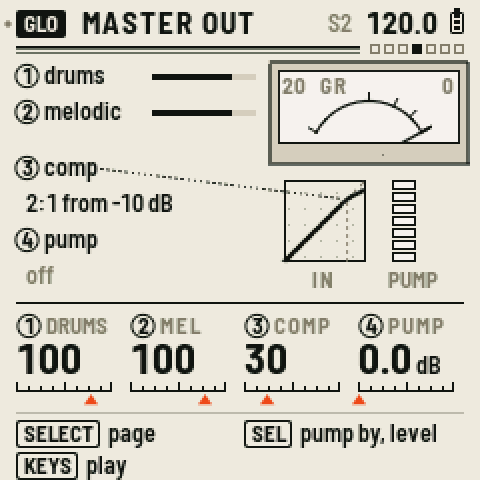
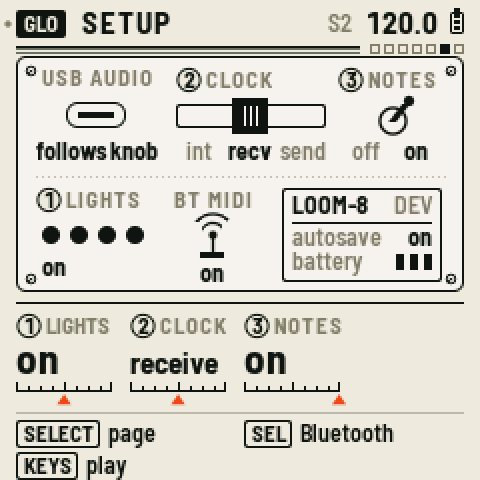
Setup: draw the rear panel (design A)
Setup's main area is now the back of the instrument instead of a spec sheet:
a USB-C socket over the USB audio setting; 2 CLOCK as a three-position slide
switch (int, recv, send, the live word bold), with an inked EXT beside it
while a MIDI clock drives the tempo; 3 NOTES as a toggle lever; 1 LIGHTS as
four lamps (on, keys: two, off: rings); BT MIDI as an antenna whose arcs show
while it is on (one while connecting) over bt_dev_text; and a rating plate
with LOOM-8 and the version, autosave and the battery's bars.

The page's hash ORed seq.ext into a bit 0x5E700 already set, so the old
page never redrew for an external clock; the new hash keeps the fields apart
and includes the touched knob (the callouts turn blue).

docs/screens/manual.xy shot Master out as setup.png; it now reaches Setup.
MANUAL: Setup's description.

diff --git a/app/pages.c b/app/pages.c
@@ -213,7 +213,6 @@ static const char *const LIGHTS_NAME[3] = {"off", "on", "keys"};
 static const char *const CLOCK_NAME[SEQ_NCLK] = {"internal", "receive", "send"};
 static const uint8_t CLOCK_POS[SEQ_NCLK] = {0, 2, 1};                  /* SEQ_CLK_* -> the knob's position */
 static const uint8_t CLOCK_AT[SEQ_NCLK] = {SEQ_CLK_INTERNAL, SEQ_CLK_RECEIVE, SEQ_CLK_SEND};
-static const char *const CLOCK_ROW[SEQ_NCLK] = {"internal", "sends", "receives"};
 static const char *const METRO_NAME[3] = {"off", "rec", "on"};
 static const char *const ONOFF[2] = {"off", "on"};
 static const char *const LINK_NAME[9] = {"off", "T1", "T2", "T3", "T4", "T5", "T6", "T7", "T8"};
@@ -8016,9 +8015,6 @@ static void draw_glfo(void)
     }
     cv_blit(0, MAIN_Y);
 }
-/* Setup: a specification sheet (the sheet's Setup): its rows with dotted leaders to their values in bold, and a small
- * drawing of the instrument: the USB port (a line), the Bluetooth link (dashed, solid while a device is joined), the
- * lights (the four pads filled when on), the version and the battery under it */
 static void spec_row_fit(int32_t x1, int32_t x2, int32_t y, const char *label, const char *val)   /* a long value goes to XS */
 {
     int32_t room = x2 - x1 - text_w(&FONT_XS, label) - 10;
@@ -8030,61 +8026,118 @@ static void spec_row_fit(int32_t x1, int32_t x2, int32_t y, const char *label, c
         (void)e;
     }
 }
+/* Setup (the drawing "A, rear panel"): the instrument's back, a card with a screw at each corner. Along the top the USB-C
+ * socket and USB audio's setting; 2 CLOCK, a three-position slide switch (int, recv, send: the knob's order), the
+ * slider over the live position, its word in bold ink, the others dim, and while a MIDI clock drives the tempo an
+ * inked EXT beside it; 3 NOTES, a toggle, the lever leaning right for on. Under a dotted rule: 1 LIGHTS, four lamps
+ * (all filled on, two for keys only, rings off); BT MIDI, an antenna (its arcs while on: one while connecting) over
+ * the Bluetooth device's text; and the rating plate: LOOM-8 and the version, autosave, the battery's bars (on a USB
+ * host's power: USB; nothing read: no row) */
+static void st_word(int32_t cx, int32_t y, const char *s, int live)   /* a switch's position: the live one bold */
+{
+    if (live)
+        text_c(cx, y, F_XB, s, K_TEXT);
+    else
+        text_c(cx, y - 1, &FONT_XS, s, K_DIM);   /* (XS one row lower: the same baseline) */
+}
 static void draw_setup(void)
 {
-    char td[24], tb[24];
-    uint32_t h = hash_u(2166136261u + proj.clock, 0x5E700u | (uint32_t)proj_slot | (uint32_t)proj.usb_full << 4 | (uint32_t)seq.ext << 8 |
-                                          (uint32_t)proj.rsv[0] << 12 | (uint32_t)proj.send_notes << 17 |
-                                          (uint32_t)(proj.rsv[2] & AUTOSAVE_OFF) << 26 | (uint32_t)(plat_battery() + 1) << 27);
-    int bt_on, bat = plat_battery();
-    const int32_t IX = 166, IY = 36;
+    static const char *const POS[SEQ_NCLK] = {"int", "recv", "send"};
+    char td[24], tv[24];
+    int bat = plat_battery(), ck = CLOCK_POS[proj.clock % SEQ_NCLK], arcs, ext = seq.ext != 0;
+    uint32_t h = hash_u(hash_u(2166136261u, 0x5E700u), (uint32_t)proj.lights | (uint32_t)proj.usb_full << 4 |
+                                           (uint32_t)ext << 8 | (uint32_t)p2_touch() << 12 | (uint32_t)proj.send_notes << 16 |
+                                           (uint32_t)ck << 20 | (uint32_t)(proj.rsv[2] & AUTOSAVE_OFF) << 24 | (uint32_t)(bat + 1) << 28);
     bt_dev_text(td, "on", "off");
     h = hash_s(h, td);
-    h = hash_u(h, proj.lights);
     if (!begin_main(h))
         return;
-    bt_on = td[0] != 'o' || td[1] != 'f';
-    tr_text(9, 3, F_LAB, "SPECIFICATIONS", K_DIM, 1);
-    spec_row_fit(8, 156, 19, "tempo from", seq.ext ? "MIDI clock in" : "LOOM-8");
-    spec_row_fit(8, 156, 33, "clock", CLOCK_ROW[proj.clock % SEQ_NCLK]);
-    spec_row_fit(8, 156, 47, "sends notes", proj.send_notes ? "yes" : "no");
-    spec_row_fit(8, 156, 61, "USB audio", USBA_NAME[proj.usb_full & 1u]);
-    spec_row_fit(8, 156, 75, "autosave", proj.rsv[2] & AUTOSAVE_OFF ? "off: SAVE saves" : "on");
-    spec_row_fit(8, 156, 89, "BT MIDI", td);
-    {   /* the instrument */
-        cv_frame(IX, IY, 64, 42, 4, K_TEXT, K_CARD);
-        cv_rect(IX + 5, IY + 5, 15, 15, K_TEXT);
-        for (int i = 0; i < 4; i++) {
-            float kx = (float)(IX + 28 + i * 9);
-            cv_disc(kx, (float)IY + 9.5f, 3.2f, K_BG);
-            cv_ring(kx, (float)IY + 9.5f, 3.4f, 0.9f, K_TEXT);
-            cv_linef(kx, (float)IY + 9.5f, kx + 1.8f, (float)IY + 7.5f, K_TEXT, 0.8f);
-            cv_frame(IX + 25 + i * 9, IY + 15, 7, 5, 1, K_TEXT, proj.lights ? K_TEXT : K_BG);
-        }
-        for (int i = 0; i < 16; i++)
-            cv_rect(IX + 5 + i * 3 + (i * 5 >> 4), IY + 25, 3, 12, K_BG);
-        cv_frame(IX + 4, IY + 24, 56, 14, 0, K_TEXT, K_BG);
-        for (int i = 0; i < 14; i++)
-            cv_rect(IX + 5 + i * 4, IY + 25, 1, 12, K_TEXT);
-        for (int i = 0; i < 14; i++)
-            if ((0x6B5u >> (i % 7)) & 1u && i % 7 != 2 && i % 7 != 6)
-                cv_rect(IX + 5 + i * 4 + 3, IY + 25, 2, 7, K_TEXT);
-        cv_linef((float)IX + 12.0f, (float)IY, (float)IX + 12.0f, (float)IY - 9.0f, K_TEXT, 1.0f);   /* USB */
-        tr_text(IX + 12 - tr_w(F_LAB, "USB", 0) / 2, IY - 21, F_LAB, "USB", K_TEXT, 0);
-        if (bt_on)
-            cv_linef((float)IX + 52.0f, (float)IY, (float)IX + 52.0f, (float)IY - 9.0f, K_TEXT, 1.0f);   /* the link: joined = solid */
+    arcs = td[0] == 'o' && td[1] == 'f' ? 0 : td[0] == 'c' && td[1] == 'o' && td[2] == 'n' ? 1 : 2;
+    if (td[0] == 'c' && td[1] == 'o' && td[2] == 'm')
+        td[8] = 0;                                   /* "computer connected": "computer" */
+    cv_frame(8, 0, 224, 118, 5, K_TEXT, K_CARD);     /* the panel, its screws */
+    p2_screw(15.0f, 7.0f), p2_screw(225.0f, 7.0f), p2_screw(15.0f, 111.0f), p2_screw(225.0f, 111.0f);
+    tr_text(48 - tr_w(F_LAB, "USB AUDIO", 1) / 2, 5, F_LAB, "USB AUDIO", K_DIM, 1);   /* USB audio: a USB-C socket */
+    cv_frame(33, 23, 30, 13, 6, K_TEXT, K_CARD);
+    cv_rect(39, 28, 18, 3, K_TEXT);
+    text_c(48, 41, F_XB, USBA_NAME[proj.usb_full & 1u], K_TEXT);
+    p2_callout(94, 12, 2, 0, K_TEXT);                /* 2 CLOCK: the slide switch */
+    tr_text(103, 6, F_LAB, "CLOCK", K_DIM, 1);
+    if (ext) {                                       /* (a MIDI clock drives the tempo) */
+        cv_round(141, 4, 23, 13, 2, K_TEXT);
+        cv_text(144, 5, F_LAB, "EXT", K_CARD);
+    }
+    cv_frame(88, 24, 75, 12, 2, K_TEXT, K_CARD);
+    {
+        int32_t sx = 99 + 26 * ck - 9;
+        cv_rect(sx, 21, 18, 18, K_TEXT);
+        for (int i = 0; i < 3; i++)
+            cv_rect(sx + 6 + 3 * i, 25, 1, 10, K_CARD);
+    }
+    for (int i = 0; i < SEQ_NCLK; i++)
+        st_word(99 + 26 * i, 41, POS[i], i == ck);
+    p2_callout(175, 12, 3, 0, K_TEXT);               /* 3 NOTES: the toggle */
+    tr_text(184, 6, F_LAB, "NOTES", K_DIM, 1);
+    {
+        float d = proj.send_notes ? 1.0f : -1.0f;
+        cv_ring(196.0f, 32.0f, 6.5f, 1.4f, K_TEXT);
+        cv_linef(196.0f, 32.0f, 196.0f + 7.0f * d, 23.0f, K_TEXT, 3.0f);
+        cv_disc(196.0f + 8.0f * d, 22.0f, 2.6f, K_TEXT);
+    }
+    st_word(183, 41, "off", !proj.send_notes);
+    st_word(208, 41, "on", proj.send_notes != 0);
+    cv_leader(16, 224, 60, K_LINE);
+    p2_callout(24, 72, 1, 0, K_TEXT);                /* 1 LIGHTS: four lamps */
+    tr_text(33, 66, F_LAB, "LIGHTS", K_DIM, 1);
+    for (int i = 0; i < 4; i++) {
+        float lx = 25.0f + 14.0f * (float)i;
+        if (proj.lights == 1 || (proj.lights == 2 && i < 2))
+            cv_disc(lx, 89.0f, 4.5f, K_TEXT);
         else
-            cv_dash((float)IX + 52.0f, (float)IY, (float)IX + 52.0f, (float)IY - 9.0f, 2.0f, 2.0f, 1.0f, K_TEXT);
-        tr_text(IX + 52 - tr_w(F_LAB, "BT", 0) / 2, IY - 21, F_LAB, "BT", bt_on ? K_TEXT : K_DIM, 0);
-        s_cat(s_cat(tb, "LOOM-8 "), APP_VERSION);
-        text_c(IX + 32, IY + 47, &FONT_XS, tb, K_DIM);
-        if (bat >= 0) {
-            if (bat == 4)
-                s_cat(tb, "on USB power");
-            else
-                s_cat(num_s((uint32_t)(bat > 3 ? 3 : bat), s_cat(tb, "battery ")), " of 3");
-            text_c(IX + 32, IY + 60, &FONT_XS, tb, bat <= 1 ? K_REC : K_DIM);
+            cv_ring(lx, 89.0f, 4.5f, 1.2f, K_TEXT);
+    }
+    cv_text(21, 99, F_XB, LIGHTS_NAME[proj.lights % 3], K_TEXT);
+    {                                                /* BT MIDI: an antenna */
+        const int32_t BX = 106, RW = 60;
+        const felucca_font_t *f = text_w(F_XB, td) <= RW ? F_XB : &FONT_XS;
+        uint32_t n = 0;
+        tr_text(BX - tr_w(F_LAB, "BT MIDI", 1) / 2, 66, F_LAB, "BT MIDI", K_DIM, 1);
+        for (int i = 0; i < arcs; i++)
+            ellipse_arc((float)BX, 89.0f, 6.0f + 4.5f * (float)i, 6.0f + 4.5f * (float)i, 0.61f, 0.89f, 1.3f, K_TEXT);
+        cv_linef((float)BX, 89.0f, (float)BX, 99.0f, K_TEXT, 1.3f);
+        cv_disc((float)BX, 89.0f, 2.0f, K_TEXT);
+        cv_rect(BX - 6, 98, 12, 3, K_TEXT);
+        while (td[n])
+            n++;
+        while (n > 2 && text_w(f, td) > RW)          /* (a long device name: cut, a stop for what is gone) */
+            td[--n] = 0, td[n - 1] = '.';
+        text_c(BX, f == F_XB ? 102 : 101, f, td, K_TEXT);
+    }
+    cv_frame(141, 66, 80, 47, 2, K_TEXT, K_CARD);    /* the rating plate */
+    {
+        int32_t e = cv_text(146, 68, F_XB, "LOOM-8", K_TEXT), room = 216 - e - 4;
+        uint32_t n = 0;
+        s_cat(tv, APP_VERSION);
+        if (text_w(&FONT_XS, tv) > room) {           /* (a long version: to its first letter after a dash, then the dash) */
+            while (tv[n] && tv[n] != '-')
+                n++;
+            if (tv[n])
+                tv[n + 2 < sizeof tv ? n + 2 : n] = 0;
+            if (text_w(&FONT_XS, tv) > room)
+                tv[n] = 0;
         }
+        text_r(216, 67, &FONT_XS, tv, K_DIM);
+    }
+    cv_rect(146, 83, 70, 1, K_TEXT);
+    cv_text(146, 83, &FONT_XS, "autosave", K_DIM);
+    text_r(216, 84, F_XB, proj.rsv[2] & AUTOSAVE_OFF ? "off" : "on", K_TEXT);
+    if (bat >= 0) {
+        cv_text(146, 95, &FONT_XS, "battery", K_DIM);
+        if (bat == 4)
+            text_r(216, 96, F_XB, "USB", K_TEXT);
+        else
+            for (int i = 0; i < 3; i++)
+                cv_frame(198 + 7 * i, 99, 4, 8, 0, K_TEXT, i < bat ? K_TEXT : K_CARD);
     }
     cv_blit(0, MAIN_Y);
 }

diff --git a/docs/MANUAL.md b/docs/MANUAL.md
@@ -1375,9 +1375,11 @@ Turn **SELECT** for more pages:
   master level.
 
 On Setup, the knobs set the lights, the MIDI clock and sending MIDI notes. The clock is internal, receive
-or send (see MIDI, below). Sending notes is on to start with. The page also shows where the tempo comes from (LOOM-8, or a MIDI clock coming in), the USB audio level,
-the autosave and Bluetooth MIDI (see Bluetooth, below). The version is on the next page,
-Debug. The **SEL** list on Setup has the FM-1's own settings, in three groups:
+or send (see MIDI, below). Sending notes is on to start with. The page draws the back of the instrument: the CLOCK
+knob moves a three-position slide switch (int, recv, send), NOTES a toggle, LIGHTS four lamps (all lit on, two for
+keys only, none off). An inked EXT beside the clock switch means a MIDI clock coming in is setting the tempo. It also
+shows the USB audio level by the USB socket, Bluetooth MIDI under an antenna (see Bluetooth, below), and a rating
+plate with the version, the autosave and the battery. The next page is Debug. The **SEL** list on Setup has the FM-1's own settings, in three groups:
 
 - Bluetooth: BT MIDI.
 - USB and MIDI: the USB audio level, USB PORT, CLOCK, NOTES, CC IN, CC OUT and SCENES OUT.
